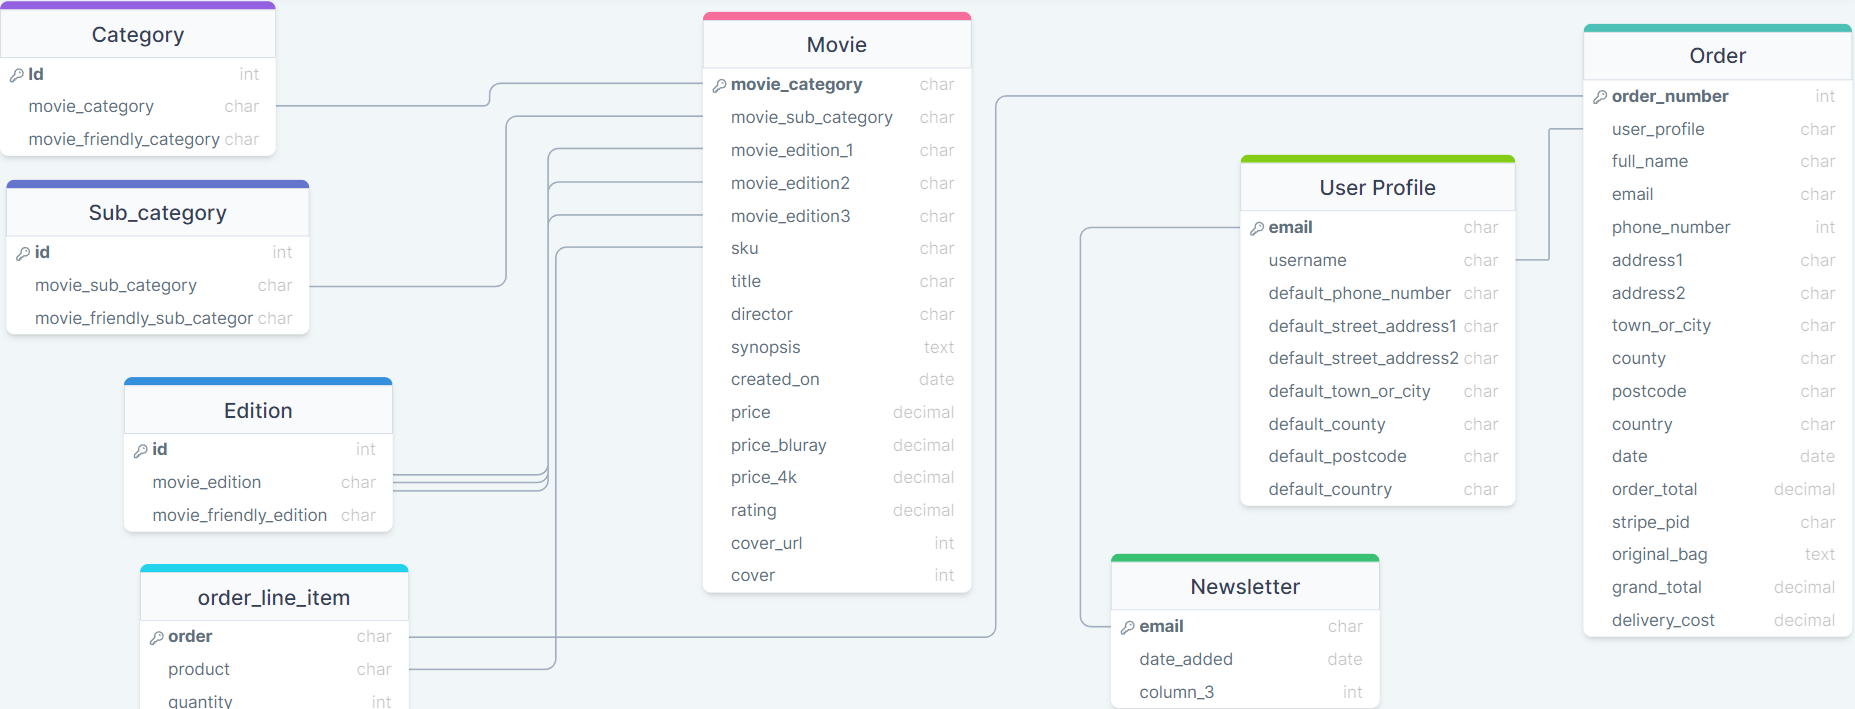
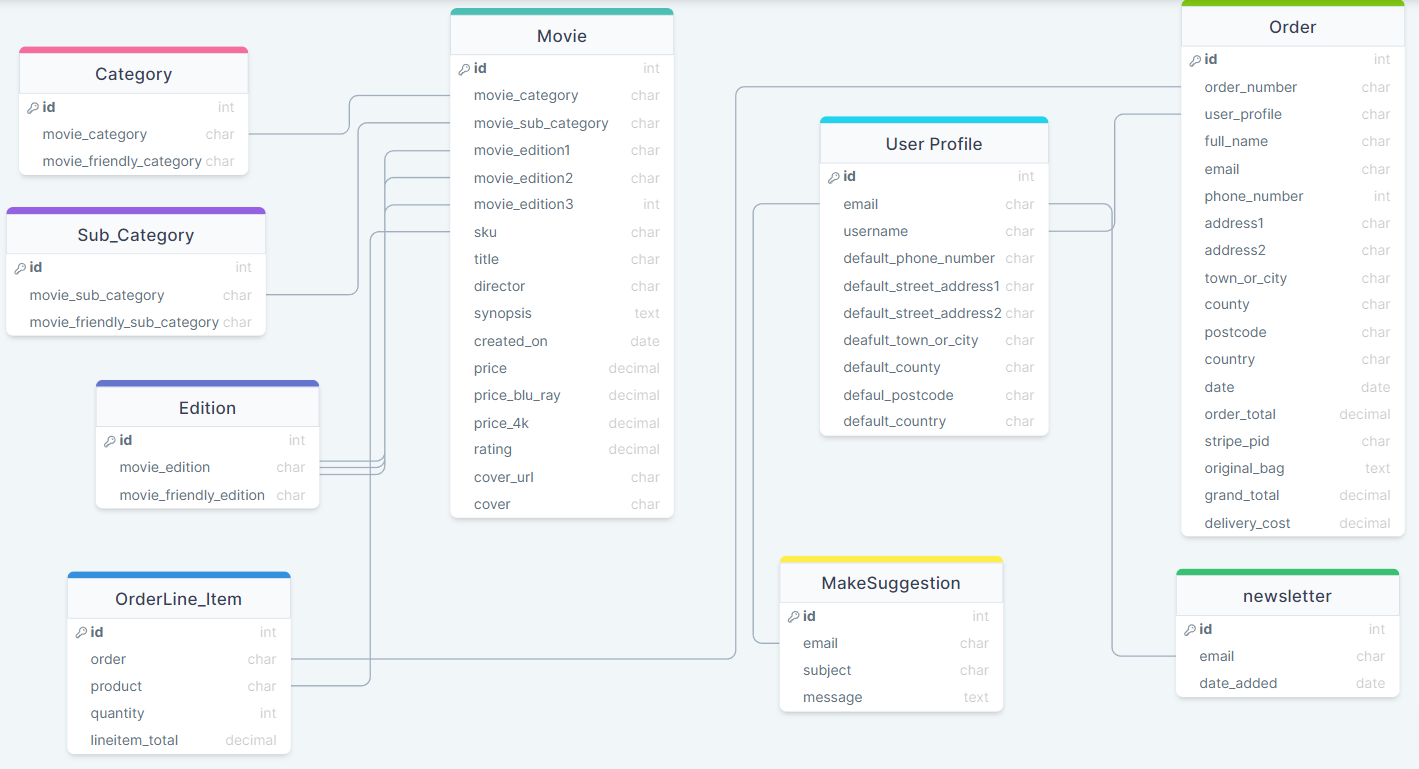
changed model diagram and suggestion page sections on readme

diff --git a/README.md b/README.md
@@ -506,7 +506,7 @@ As part of this project, a Facebook business page was created for Movie Night. I
 
 - Users can subscribe to the newsletter 
 
-- Users can leave a suggestion and they will receive a confirmation email. Movie night will also get an email with the inquiry from the user. All of the process has been tested and is working correctly.
+- Users can leave a suggestion and they will receive a confirmation message. 
 
 - All the popup messages are working correctly, including authentication success, edit/delete/add product success or fail, order confirmation and add to bag success. 
 
